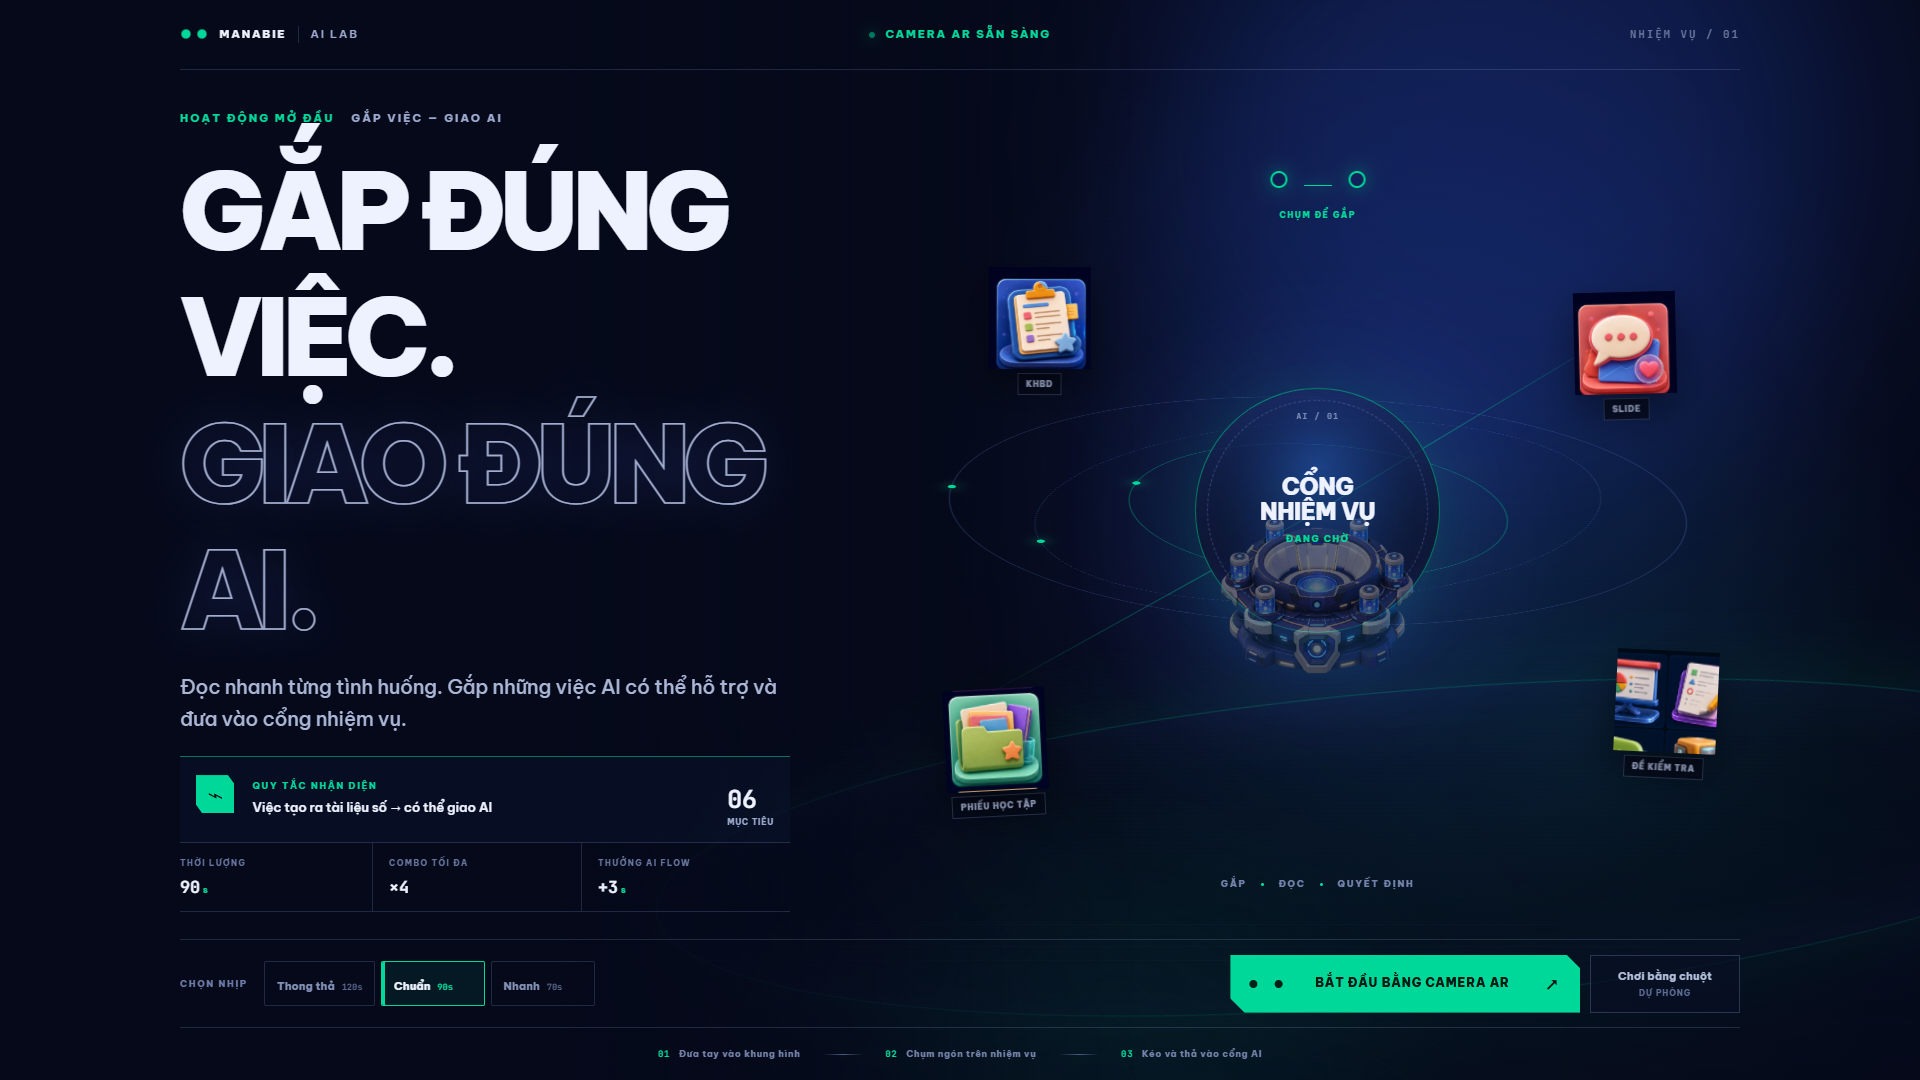
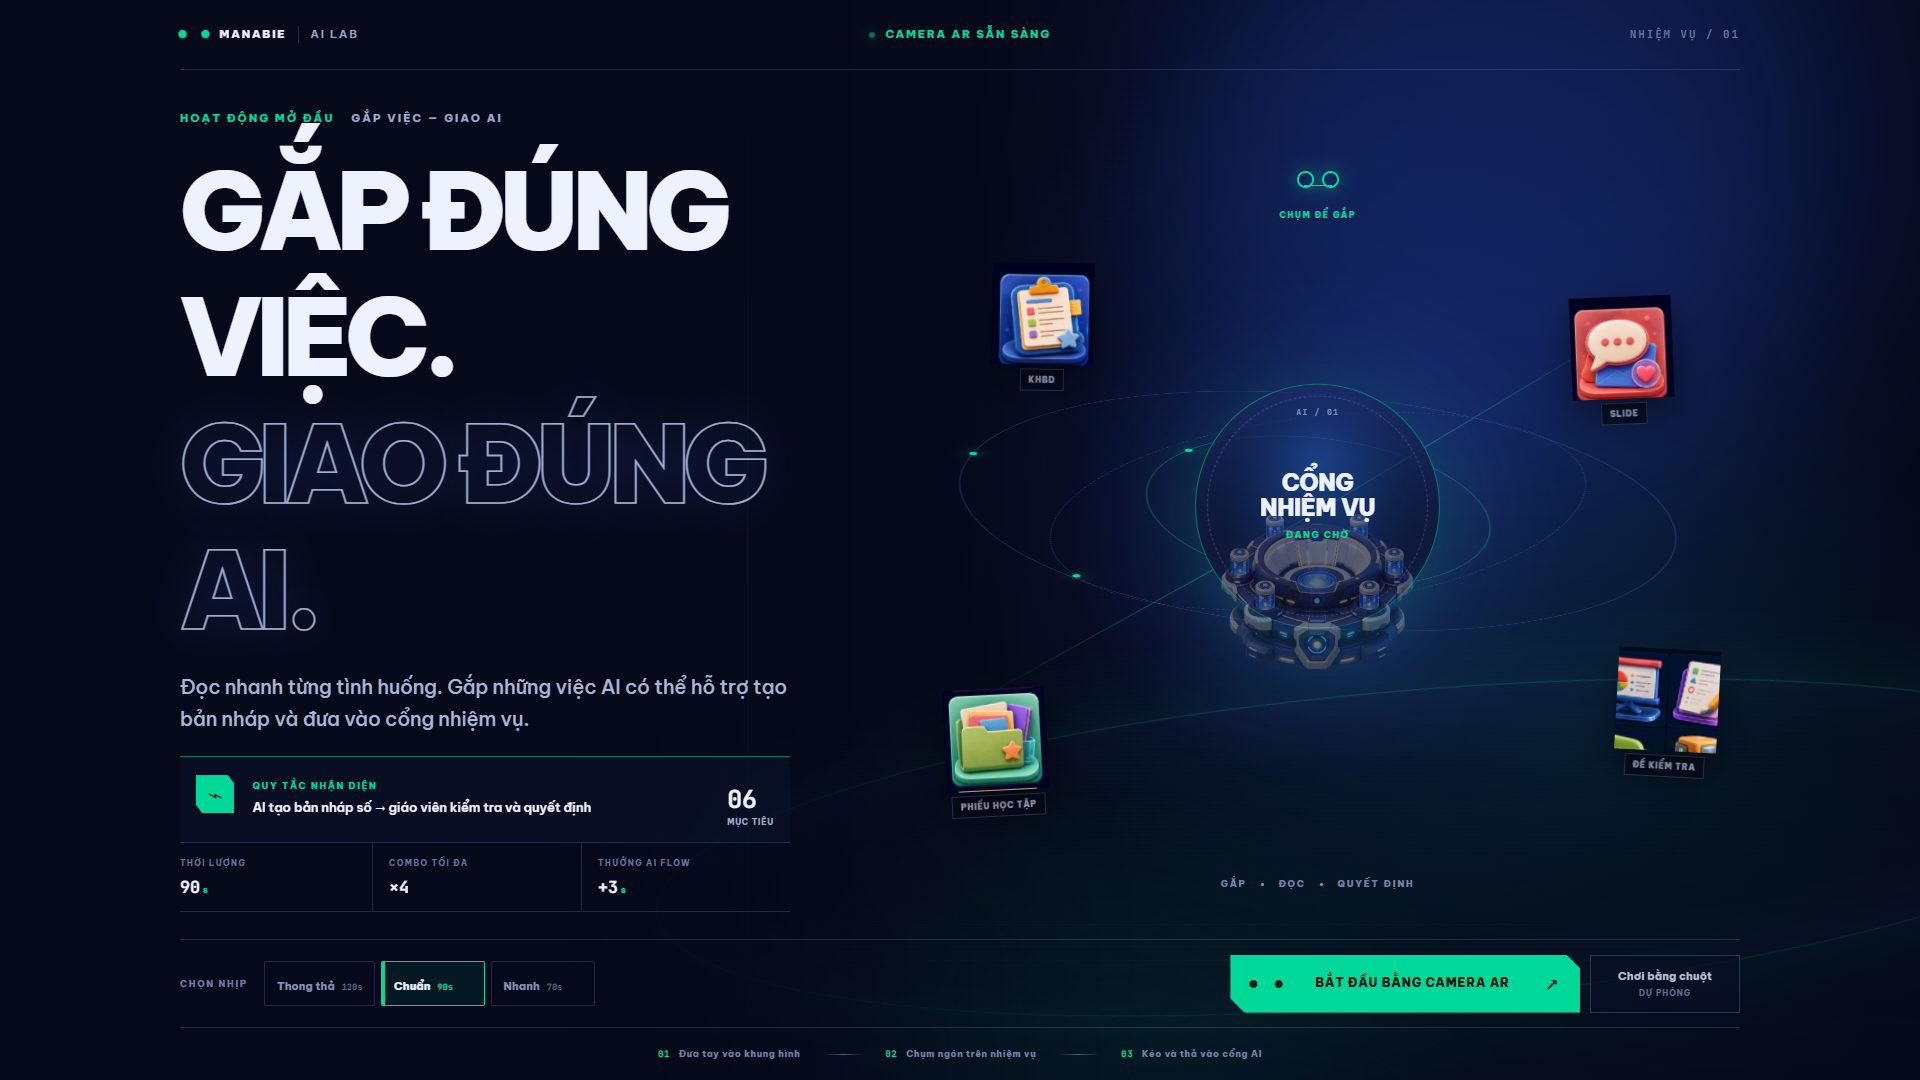
Slow task fall and clarify AI boundaries

diff --git a/src/data/tasks.ts b/src/data/tasks.ts
@@ -9,32 +9,34 @@ export interface TaskDef {
 }
 
 /**
- * Sáu nhiệm vụ cốt lõi — đúng danh sách trong kế hoạch demo Manabie.
+ * Sáu nhiệm vụ cốt lõi — các đầu ra số AI có thể hỗ trợ tạo bản nháp.
+ * Giáo viên vẫn kiểm tra mục tiêu, độ chính xác, dữ liệu riêng tư và quyết định bản cuối.
  * Sáu quả này gắp vào giỏ chính là sáu nhiệm vụ chia cho sáu nhóm ở hoạt động 2.
+ * Giữ nguyên thứ tự: mỗi vị trí khớp một ô trong mission-icon-atlas-v2.png.
  */
 export const CORE_TASKS: TaskDef[] = [
-  { id: 'khbd', label: 'Tạo kế hoạch bài dạy', short: 'KHBD', kind: 'CORE' },
-  { id: 'slide', label: 'Tạo slide bài giảng', short: 'SLIDE', kind: 'CORE' },
-  { id: 'pht', label: 'Thiết kế phiếu học tập', short: 'PHIẾU', kind: 'CORE' },
-  { id: 'btvn', label: 'Tạo bài tập về nhà', short: 'BTVN', kind: 'CORE' },
-  { id: 'dekt', label: 'Thiết kế đề kiểm tra', short: 'ĐỀ KT', kind: 'CORE' },
-  { id: 'phhs', label: 'Giao tiếp với phụ huynh', short: 'PHỤ HUYNH', kind: 'CORE' },
+  { id: 'khbd', label: 'Soạn dự thảo kế hoạch bài dạy', short: 'KHBD', kind: 'CORE' },
+  { id: 'slide', label: 'Tạo bản nháp slide bài giảng', short: 'SLIDE', kind: 'CORE' },
+  { id: 'pht', label: 'Soạn phiếu học tập', short: 'PHIẾU', kind: 'CORE' },
+  { id: 'btvn', label: 'Gợi ý bài tập về nhà', short: 'BTVN', kind: 'CORE' },
+  { id: 'dekt', label: 'Tạo bản nháp đề kiểm tra', short: 'ĐỀ KT', kind: 'CORE' },
+  { id: 'phhs', label: 'Soạn thông báo cho phụ huynh', short: 'THÔNG BÁO', kind: 'CORE' },
 ];
 
 /**
- * Quả nhiễu: buồn cười nhưng KHÔNG xúc phạm nghề.
- * Điểm chung của nhóm này là việc cần mặt người hoặc việc vặt — AI không làm thay được.
+ * Quả nhiễu: việc cần hiện diện, thấu cảm, phán đoán nghề nghiệp hoặc thao tác vật lý.
+ * AI có thể gợi ý, nhưng không được thay con người thực hiện hay chịu trách nhiệm.
+ * Giữ nguyên thứ tự: các mục tiếp tục nối sau CORE_TASKS trong icon atlas.
  */
 export const NOISE_TASKS: TaskDef[] = [
   { id: 'n_cafe', label: 'Pha cà phê cho tổ trưởng', kind: 'NOISE' },
-  { id: 'n_mxh', label: 'Lướt mạng xã hội', kind: 'NOISE' },
+  { id: 'n_chupanh', label: 'Trực tiếp chụp ảnh lớp học', kind: 'NOISE' },
   { id: 'n_banghe', label: 'Xếp lại bàn ghế', kind: 'NOISE' },
-  { id: 'n_doxe', label: 'Tìm chỗ đỗ xe', kind: 'NOISE' },
-  { id: 'n_antrua', label: 'Đi ăn trưa căng tin', kind: 'NOISE' },
+  { id: 'n_doxe', label: 'Đỗ xe tại trường', kind: 'NOISE' },
+  { id: 'n_antrua', label: 'Ăn trưa tại căng tin', kind: 'NOISE' },
   { id: 'n_sacpin', label: 'Sạc pin điện thoại', kind: 'NOISE' },
   { id: 'n_tuoicay', label: 'Tưới cây văn phòng', kind: 'NOISE' },
-  { id: 'n_avatar', label: 'Chọn ảnh đại diện Zalo', kind: 'NOISE' },
+  { id: 'n_phuhuynh', label: 'Trao đổi trực tiếp với phụ huynh', kind: 'NOISE' },
 ];
 
 export const ALL_TASKS: TaskDef[] = [...CORE_TASKS, ...NOISE_TASKS];
-

diff --git a/src/App.tsx b/src/App.tsx
@@ -319,14 +319,14 @@ function Intro({
               <span className="is-outline">AI.</span>
             </h1>
             <p className="entry-lead">
-              Đọc nhanh từng tình huống. Gắp những việc AI có thể hỗ trợ và đưa vào cổng nhiệm vụ.
+              Đọc nhanh từng tình huống. Gắp những việc AI có thể hỗ trợ tạo bản nháp và đưa vào cổng nhiệm vụ.
             </p>
 
             <div className="entry-rule">
               <span className="entry-rule-icon" aria-hidden="true">⌁</span>
               <div>
                 <b>QUY TẮC NHẬN DIỆN</b>
-                <p>Việc tạo ra tài liệu số → có thể giao AI</p>
+                <p>AI tạo bản nháp số → giáo viên kiểm tra và quyết định</p>
               </div>
               <strong>06</strong>
               <small>MỤC TIÊU</small>
@@ -523,7 +523,7 @@ function Debrief({ state, onReplay }: { state: GameState; onReplay: () => void }
               AI Đồng Hành & Tối Ưu Hồ Sơ
             </h3>
             <p className="mt-2.5 text-base leading-relaxed text-[var(--chalk)]/90 font-medium">
-              Các công việc tạo lập hồ sơ, giáo án, phiếu học tập và đề kiểm tra — AI có thể hỗ trợ xử lý tự động hóa nhanh chóng và chính xác.
+              AI có thể hỗ trợ tạo bản nháp hồ sơ, giáo án, phiếu học tập và đề kiểm tra. Giáo viên kiểm tra mục tiêu, độ chính xác, dữ liệu riêng tư và quyết định bản cuối.
             </p>
           </div>
 
@@ -541,7 +541,7 @@ function Debrief({ state, onReplay }: { state: GameState; onReplay: () => void }
               Thầy Cô Dẫn Dắt & Truyền Cảm Hứng
             </h3>
             <p className="mt-2.5 text-base leading-relaxed text-[var(--chalk)]/90 font-medium">
-              Sự kết nối, thấu hiểu, cảm xúc và tương tác trực tiếp với từng học sinh — chính thầy cô luôn là trung tâm kiến tạo lớp học hạnh phúc.
+              Thầy cô trực tiếp quan sát, thấu hiểu, xử lý tình huống và giao tiếp với học sinh, phụ huynh; đồng thời chịu trách nhiệm chuyên môn cho mọi sản phẩm dùng trong lớp học.
             </p>
           </div>
         </div>
@@ -558,7 +558,7 @@ function Debrief({ state, onReplay }: { state: GameState; onReplay: () => void }
             </span>
           </div>
           <p className="mt-3.5 text-[clamp(1.15rem,2.1vw,1.65rem)] font-bold leading-[1.55] text-[var(--chalk)]">
-            Sáu việc này, mỗi tuần thầy cô làm bao nhiêu lần? Làm sao để làm nhanh nhất mà vẫn chính xác nhất?
+            Sáu việc này, AI nên hỗ trợ đến bước nào? Thầy cô cần kiểm tra điều gì trước khi sử dụng với học sinh và phụ huynh?
           </p>
         </section>
 

diff --git a/src/utils/engine.ts b/src/utils/engine.ts
@@ -30,10 +30,14 @@ interface DifficultyConfig {
   durationSec: number;
 }
 
+/** Đã giảm 30%, nay giảm thêm 50%: còn 35% nhịp gốc; không đổi nhịp sinh bóng. */
+const FALL_SPEED_SCALE = 0.35;
+const FALL_ACCELERATION = 0.00004 * FALL_SPEED_SCALE;
+
 const DIFFICULTY: Record<Difficulty, DifficultyConfig> = {
-  easy: { spawnEveryMs: 1500, fallSpeed: 0.030, noiseRatio: 0.35, durationSec: 120 },
-  normal: { spawnEveryMs: 1150, fallSpeed: 0.045, noiseRatio: 0.45, durationSec: 90 },
-  hard: { spawnEveryMs: 850, fallSpeed: 0.062, noiseRatio: 0.55, durationSec: 70 },
+  easy: { spawnEveryMs: 1500, fallSpeed: 0.030 * FALL_SPEED_SCALE, noiseRatio: 0.35, durationSec: 120 },
+  normal: { spawnEveryMs: 1150, fallSpeed: 0.045 * FALL_SPEED_SCALE, noiseRatio: 0.45, durationSec: 90 },
+  hard: { spawnEveryMs: 850, fallSpeed: 0.062 * FALL_SPEED_SCALE, noiseRatio: 0.55, durationSec: 70 },
 };
 
 /** Đầu vào một bàn tay — giữ nguyên hình dạng của earth-defender-ar để tái dùng lớp camera. */
@@ -518,7 +522,7 @@ export class GameEngine {
 
       ball.x += ball.vx * step;
       ball.y += ball.vy * step;
-      ball.vy += 0.00004 * step;
+      ball.vy += FALL_ACCELERATION * step;
 
       if (ball.x < ball.r) {
         ball.x = ball.r;

diff --git a/scripts/qa_visual.py b/scripts/qa_visual.py
@@ -1,3 +1,4 @@
+import re
 from pathlib import Path
 from playwright.sync_api import sync_playwright
 
@@ -6,6 +7,13 @@ out.mkdir(exist_ok=True)
 errors = []
 failed_resources = []
 failed_requests = []
+
+engine_source = Path("src/utils/engine.ts").read_text(encoding="utf-8")
+fall_scale_match = re.search(r"const FALL_SPEED_SCALE = ([0-9.]+);", engine_source)
+fall_scale = float(fall_scale_match.group(1)) if fall_scale_match else None
+assert fall_scale == 0.35, f"Unexpected fall speed scale: {fall_scale}"
+assert engine_source.count("fallSpeed:") == 4, "All three modes must define fallSpeed"
+assert engine_source.count("fallSpeed: 0.") == 3, "All three modes must use the shared scale"
 
 with sync_playwright() as p:
     chrome = Path(r"C:\Program Files\Google\Chrome\Application\chrome.exe")
@@ -23,9 +31,12 @@ with sync_playwright() as p:
     motion = page.locator(".entry-scanline").evaluate("el => getComputedStyle(el).animationName")
     orbs = page.locator(".entry-task").count()
     no_horizontal_overflow = page.evaluate("document.documentElement.scrollWidth <= document.documentElement.clientWidth")
-    hard_button = page.locator(".entry-speed button").nth(2)
-    hard_button.click()
-    hard_selected = hard_button.get_attribute("aria-pressed")
+    selected_modes = []
+    speed_buttons = page.locator(".entry-speed button")
+    for index, mode in enumerate(("easy", "normal", "hard")):
+        button = speed_buttons.nth(index)
+        button.click()
+        selected_modes.append((mode, button.get_attribute("aria-pressed")))
 
     mobile = browser.new_page(viewport={"width": 390, "height": 844}, device_scale_factor=1)
     mobile.goto("http://127.0.0.1:4173", wait_until="networkidle")
@@ -34,7 +45,9 @@ with sync_playwright() as p:
     mobile.close()
 
     page.get_by_role("button", name="Chơi bằng chuột").click()
-    page.wait_for_timeout(4200)
+    # Qua hiệu ứng chuyển màn + đếm ngược, rồi để nhiều nhiệm vụ rơi đủ xa
+    # nhằm kiểm tra trực quan nhịp rơi, mật độ và khả năng đọc nhãn.
+    page.wait_for_timeout(9000)
     page.screenshot(path=str(out / "game-live.png"), full_page=False)
     canvas = page.locator("canvas").count()
     hud = page.locator(".game-hud").count()
@@ -43,7 +56,8 @@ with sync_playwright() as p:
         "animated_tasks": orbs,
         "desktop_no_horizontal_overflow": no_horizontal_overflow,
         "mobile_no_horizontal_overflow": mobile_overflow,
-        "hard_selected": hard_selected,
+        "fall_speed_scale": fall_scale,
+        "selected_modes": selected_modes,
         "canvas": canvas,
         "hud": hud,
         "errors": errors,

diff --git a/README.md b/README.md
@@ -14,8 +14,8 @@ camera và nhận diện tay MediaPipe, thay toàn bộ cơ chế chơi từ *ng
 
 Trò chơi không phải để giải trí. Nó tạo ra **tiêu chí phân loại công việc**:
 
-- **Quả xanh — 6 nhiệm vụ cốt lõi:** đều là việc tạo ra một sản phẩm giấy tờ. AI làm được.
-- **Quả cam — nhiễu:** đều là việc cần mặt người hoặc việc vặt. AI không làm thay được.
+- **Quả xanh — 6 nhiệm vụ cốt lõi:** đều là đầu ra số AI có thể hỗ trợ tạo bản nháp. Giáo viên phải kiểm tra và quyết định bản cuối.
+- **Quả cam — nhiễu:** đều cần hiện diện, thấu cảm, phán đoán nghề nghiệp hoặc thao tác vật lý. AI không làm thay và không chịu trách nhiệm thay con người.
 
 Sáu nhiệm vụ gắp được vào giỏ chính là **sáu nhiệm vụ chia cho sáu nhóm** ở hoạt
 động NotebookLM ngay sau đó. Không có bước chuyển gượng ép.
